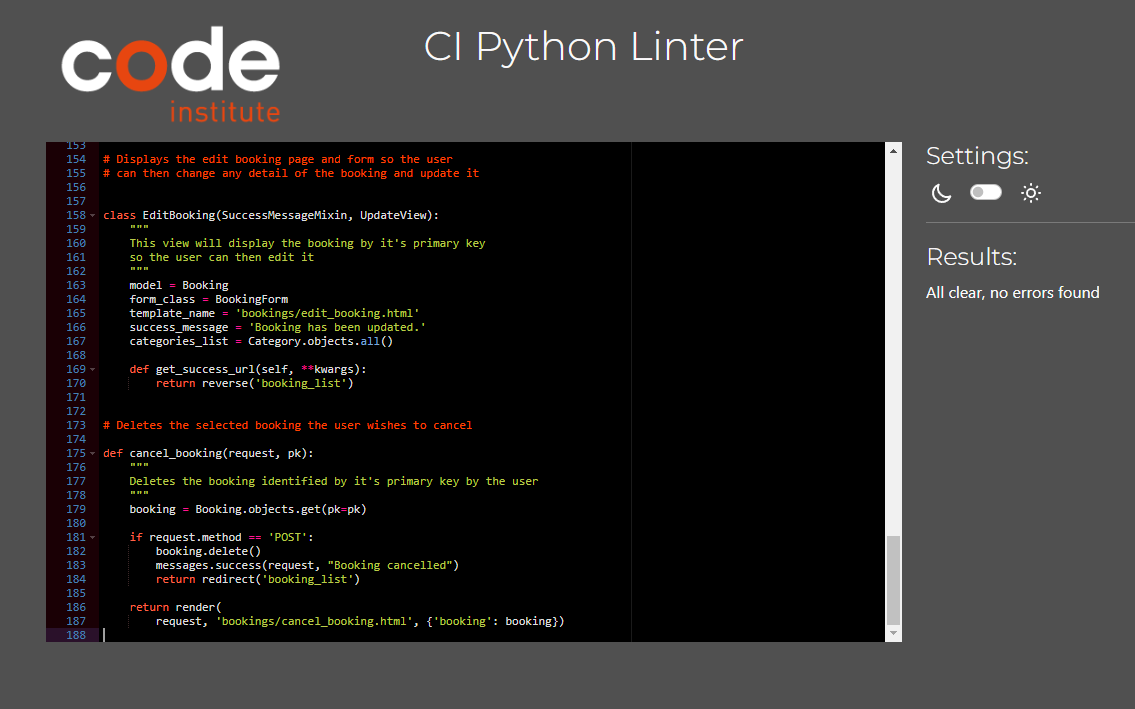
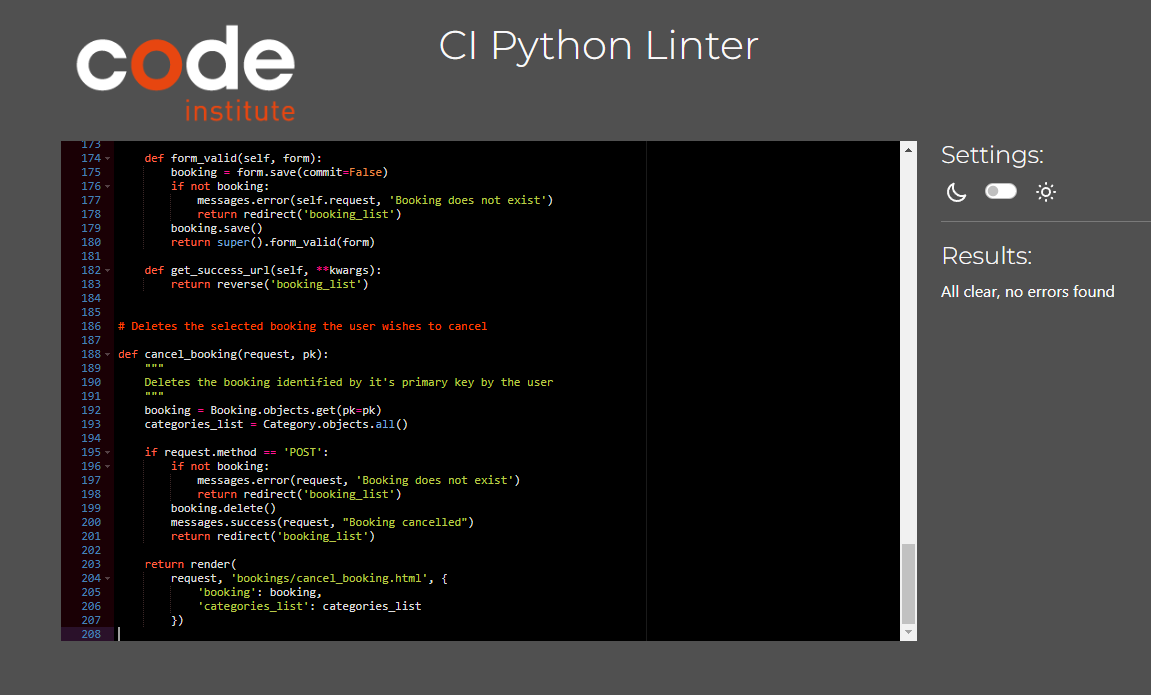
Add form_valid method to edit booking view, updated pep8 validation image to docs for bookings views

diff --git a/bookings/views.py b/bookings/views.py
@@ -171,6 +171,14 @@ class EditBooking(SuccessMessageMixin, UpdateView):
         context['categories_list'] = self.categories_list
         return context
 
+    def form_valid(self, form):
+        booking = form.save(commit=False)
+        if not booking:
+            messages.error(self.request, 'Booking does not exist')
+            return redirect('booking_list')
+        booking.save()
+        return super().form_valid(form)
+
     def get_success_url(self, **kwargs):
         return reverse('booking_list')
 
